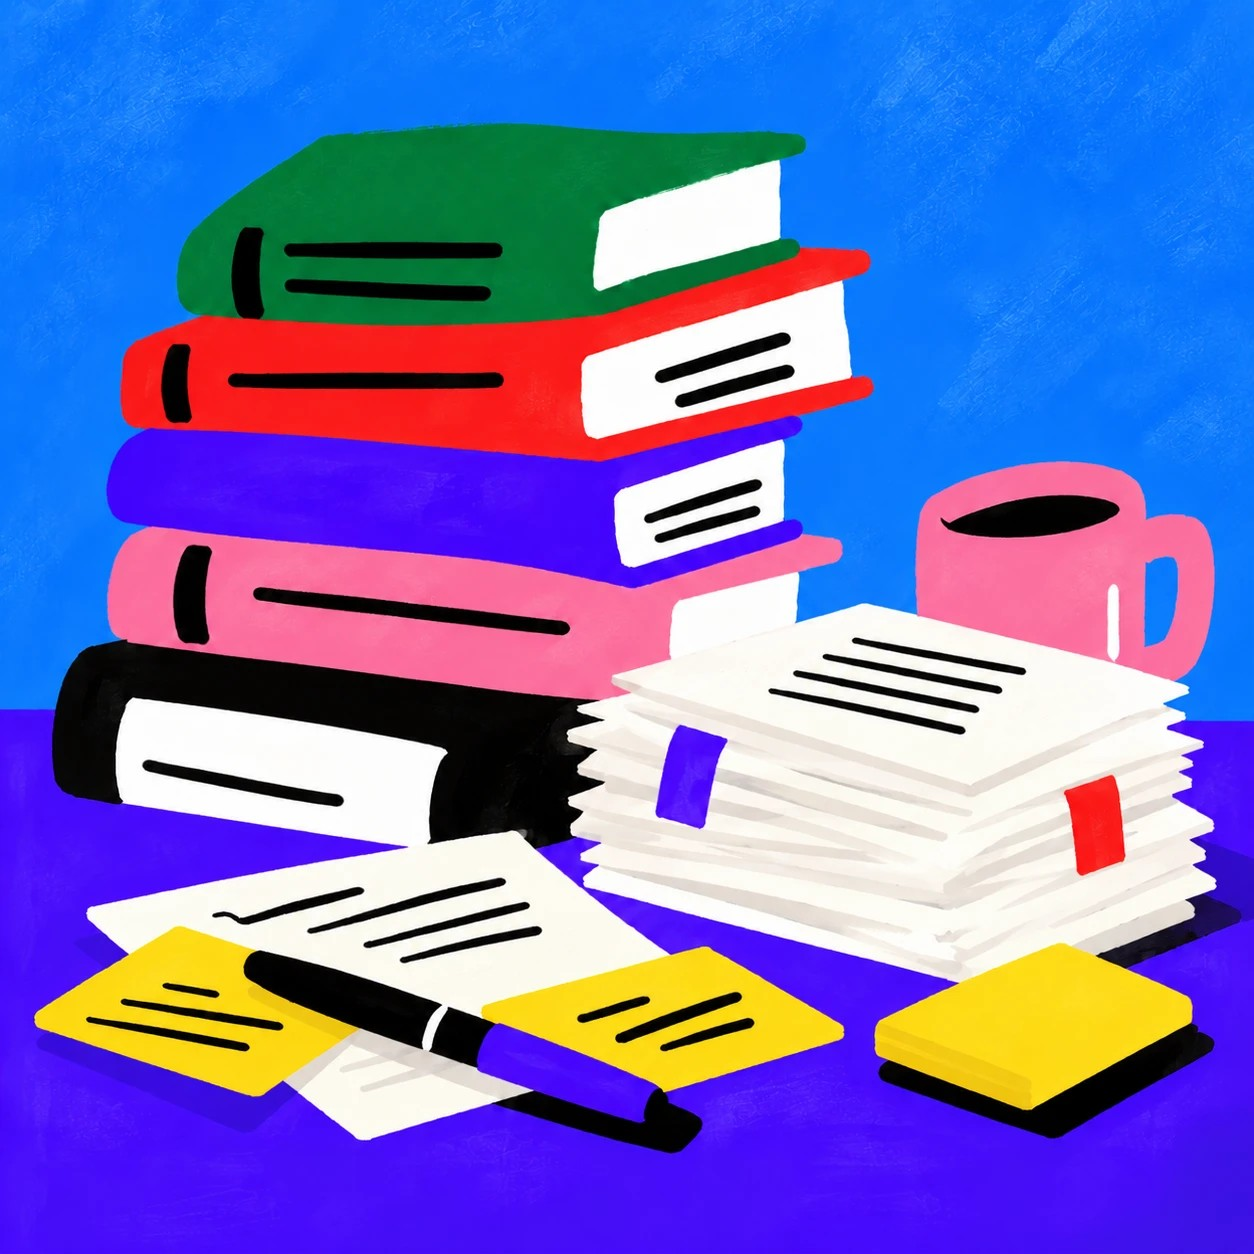
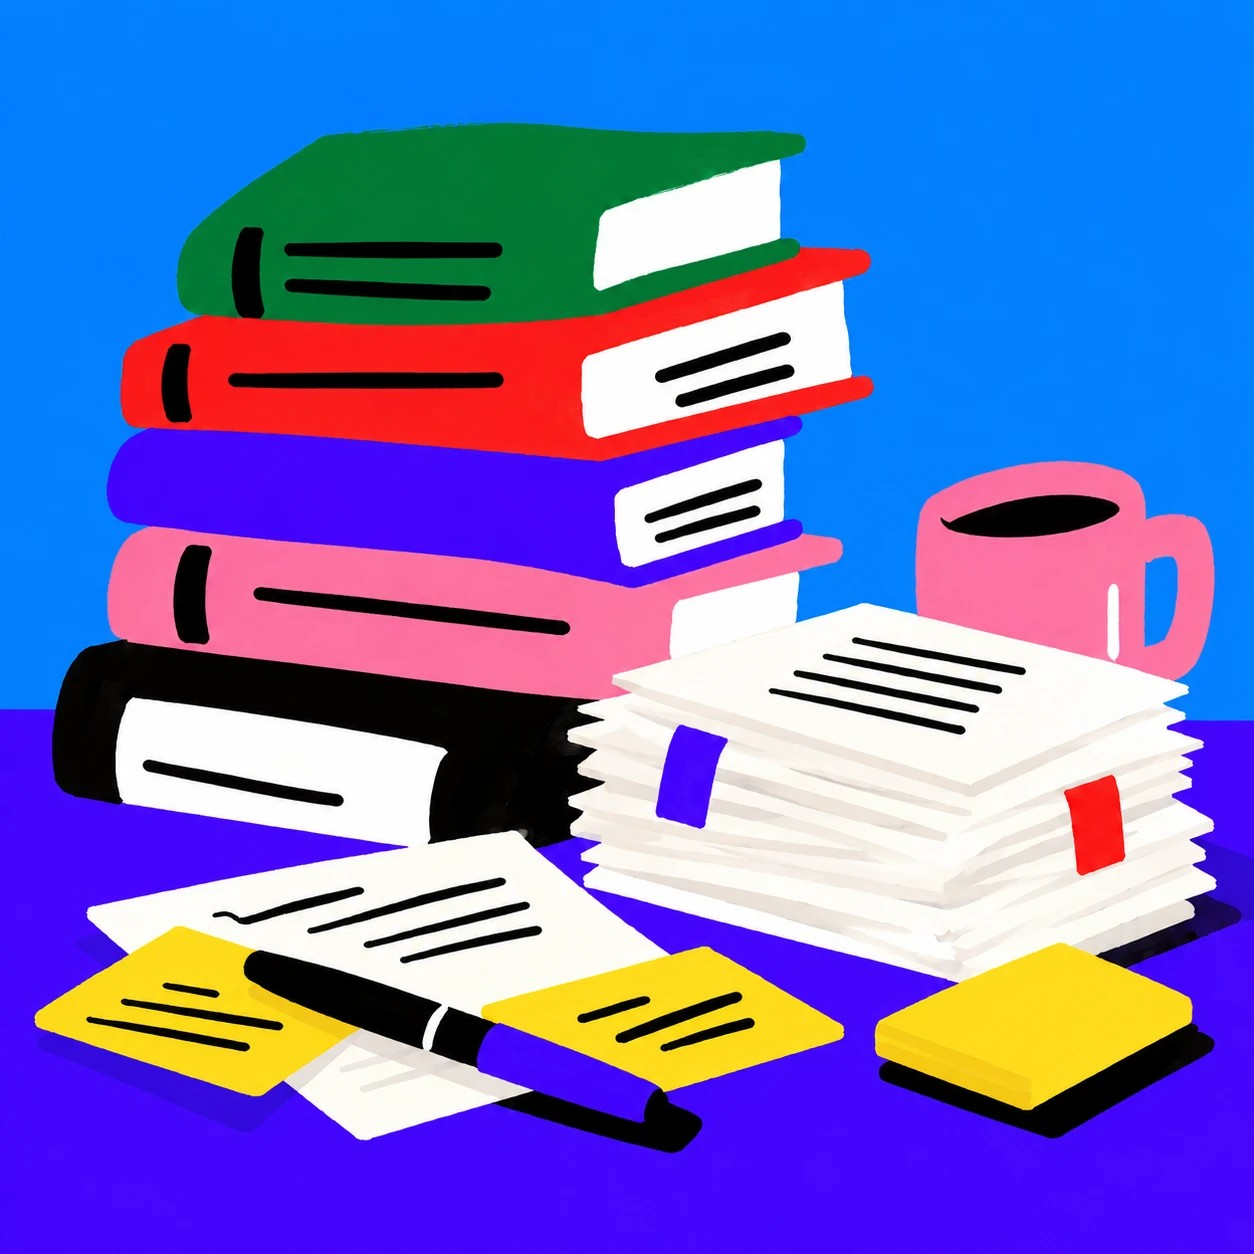
Nieuwe foto Organisaties & Professionals, Schrijfclub-header verder naar rechts, hangende inspringing bij "Schrijven voor Iedereen"
Claude-Session: https://claude.ai/code/session_01Hr3XDf9knaHeFQAtQWigog

diff --git a/public/css/homepage.css b/public/css/homepage.css
@@ -70,7 +70,7 @@ header.site-top {
 }
 
 .site-name--schrijfclub {
-  margin-left: 24px;
+  margin-left: 56px;
   color: var(--ink);
 }
 
@@ -673,6 +673,13 @@ main.home-main {
   font-weight: 750;
   line-height: 1.1;
   letter-spacing: -0.01em;
+}
+
+/* "Schrijven voor" blijft op regel 1 links staan; "Iedereen" (regel 2,
+   door de regelafbreking) schuift wat op naar rechts. */
+.page-schrijfclub .tile-hero-media .pijler {
+  padding-left: 48px;
+  text-indent: -48px;
 }
 
 .tile-hero-media .sub {
